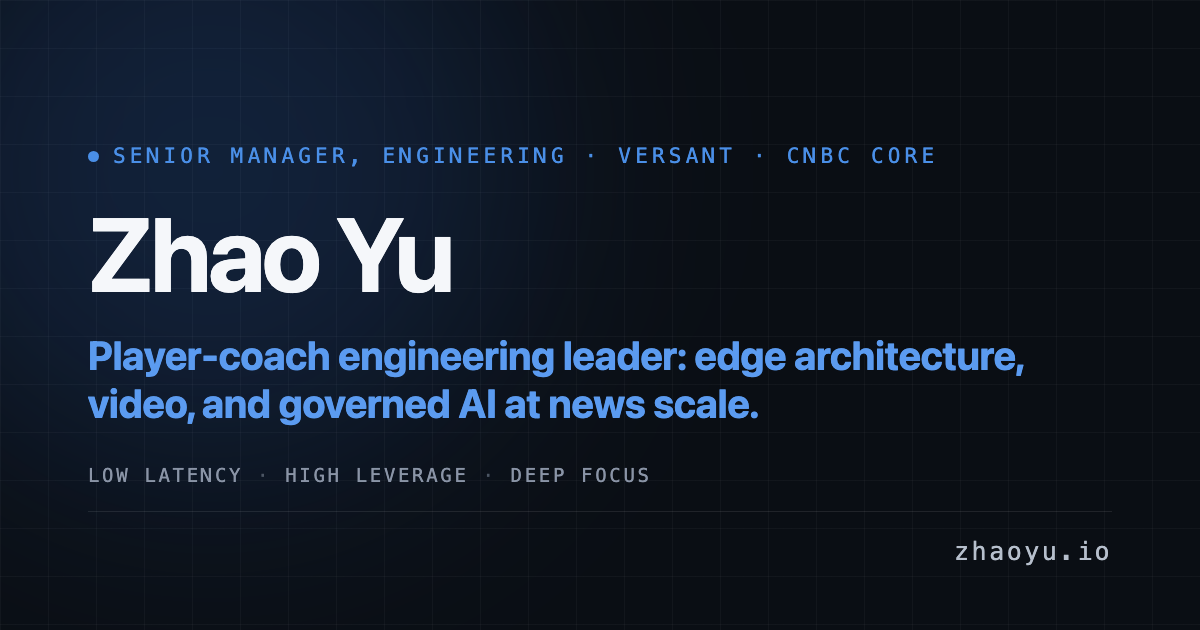
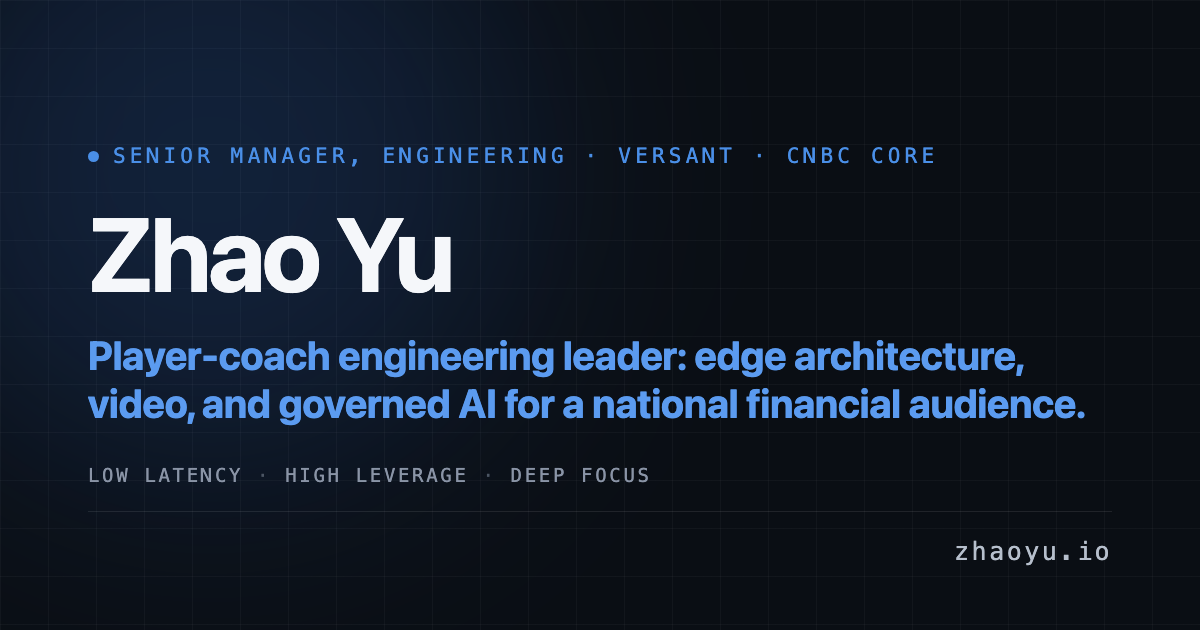
Center the copy on business impact; align the writer skill with the disclosure policy
- Every landing-page block now leads with the business outcome: hero
  (platform performance -> audience and revenue), migration card (holds
  the full audience through market-moving spikes), rebuild card (the
  redesign scope: AI/video/site experiences plus the integration web —
  Amplitude, Adobe Launch, MPS, GraphQL, identity, subscriptions), AI
  card (trust as the conversion metric on Versant's stated D2C bet),
  separation card (the work that let the spinoff stand alone), About
  (both tracks at once — decisions made in the room, no translation
  layer), org label updated to Versant (CNBC Core) everywhere.
- Voice pass per the writer skill: no 'leverage' as a verb, no 'at
  scale' without a number, em-dash and closing-cadence caps, claim-first
  openings. llms.txt tells the same story on the agent layer.
- writer skill surfaces.md brought in line with the disclosure policy:
  the verified-figures table now carries public sources, the deny-list
  is stated in the skill itself, and the removed goLoudPositioning
  machinery is no longer documented as live.
- OG site card + manifest regenerated; tokens.css regenerated from
  app.css (inverse-surface tokens, AA independent accent).

Changed region(s): [[0.4008, 0.6032, 0.925, 0.6635]]

diff --git a/frontend/src/lib/constants/content.ts b/frontend/src/lib/constants/content.ts
@@ -65,13 +65,13 @@ export interface HeroContent {
 export const heroContent: HeroContent = {
   badge: 'SENIOR MANAGER, ENGINEERING · VERSANT · CNBC CORE',
   headline: {
-    primary: 'I lead engineering teams that ship fast, trustworthy media platforms.',
+    primary: 'I lead engineering teams that turn platform performance into audience and revenue.',
     accent:
-      'Player-coach: 20 engineers, 3 teams, the next-gen CNBC.com rebuild — hands still in the code.',
+      'Player-coach: 20 engineers, 3 teams, driving the next-gen CNBC.com rebuild — hands still in the code.',
   },
   tagline:
-    'Player-coach engineering leader: edge architecture, video, and governed AI at news scale.',
-  bio: 'Nine years building CNBC.com — from intern to Principal Engineer to running the web organization. Today that means edge architecture, video, and governed AI for a platform ~47M readers use every month.',
+    'Player-coach engineering leader: edge architecture, video, and governed AI for a national financial audience.',
+  bio: 'Nine years on CNBC.com, intern to Principal Engineer to running the web organization. I keep the platform fast enough to hold ~47M monthly readers through market-moving events — edge architecture, video, and governed AI, built by teams I lead and still code beside.',
   cta: {
     primary: 'View Selected Work',
     secondary: 'Read the Notes',
@@ -144,7 +144,7 @@ export const projectsData: ProjectsData = {
     {
       title: 'CNBC.com Next-Gen Migration',
       description:
-        'Architected the migration of CNBC.com from a legacy client-side monolith to an isomorphic Akamai Edge architecture: business and rendering logic moved to Akamai EdgeWorkers, executing at the network edge rather than origin. The platform now carries CNBC’s full digital audience through market-moving events with a sub-2-second p75 LCP in public field data, and the cutover shipped with zero downtime.',
+        'Market-moving days are a financial-news business at its most valuable and most fragile. I architected CNBC.com’s migration from a legacy client-side monolith to an isomorphic Akamai Edge architecture, moving business and rendering logic to the network edge, so the platform holds its full audience through exactly those spikes: sub-2-second p75 LCP in public field data, zero downtime through the cutover, and no lost sessions or ad impressions at the moments the audience is largest.',
       tags: ['Isomorphic React', 'Akamai EdgeWorkers', 'High Scale', 'Performance'],
       metrics: [
         { label: 'P75 LCP (CRUX)', value: '1.7s' },
@@ -368,22 +368,29 @@ export interface BuilderProject {
  */
 export const builderProjects: BuilderProject[] = [
   {
-    title: 'CNBC.com Next-Gen Platform & Video Rebuild',
+    title: 'CNBC.com Next-Gen Rebuild',
     category: 'professional',
     description:
-      'Ground-up rebuild of CNBC.com and its core video experiences: modular player frameworks and edge rendering for CNBC’s digital audience, live and on-demand. I run the three web teams delivering it and still carry the core architecture myself.',
-    stack: ['Isomorphic React', 'Akamai EdgeWorkers', 'SSE Real-Time Sync', 'Micro-Frontends'],
+      'Driving the complete redesign of CNBC.com — architecting and shaping the new UI/UX end to end with a peer engineering manager. I lead the frontend architecture for the AI experiences, lead the team building the video and site experiences, and make sure the whole web behind the page holds up: analytics (Amplitude, Adobe Launch), MPS ad serving, the GraphQL data layer, login and subscriptions, SEO, compliance, and editorial workflows — so what ships is a great end-user experience, not features bolted onto a shell — on the surface Versant’s digital growth strategy rides on.',
+    stack: [
+      'Isomorphic React',
+      'Akamai EdgeWorkers',
+      'GraphQL',
+      'Micro-Frontends',
+      'Amplitude',
+      'MPS Ads',
+    ],
     status: 'active',
     metrics: [
-      { label: 'Web teams', value: '3' },
-      { label: 'Playback', value: 'Live + VOD' },
+      { label: 'Experiences', value: 'AI · Video · Site' },
+      { label: 'Integrations', value: 'Analytics · Ads · Identity · Subs' },
     ],
   },
   {
     title: 'AI-Powered Investing Tools (Frontend Architecture)',
     category: 'professional',
     description:
-      "Leading the frontend architecture for the AI-powered investing tools in CNBC's next-generation platform: deterministic, accessible interfaces around non-deterministic model output — frame-buffered token streaming, graceful degradation, and trust-preserving latency for a financial audience.",
+      "Leading the frontend architecture for the AI-powered investing tools in CNBC's next-generation platform — the direct-to-consumer bet Versant has described to investors. In financial products, trust is the conversion metric: my work makes non-deterministic model output feel deterministic — frame-buffered streaming, graceful degradation, latency that never shakes a reader’s confidence in the number on screen.",
     stack: ['Streaming UI', 'SSE', 'React', 'HCI'],
     status: 'active',
     metrics: [
@@ -399,7 +406,7 @@ export const builderProjects: BuilderProject[] = [
     title: 'Infrastructure & Privacy Separation',
     category: 'professional',
     description:
-      'Directed a 4-month cross-functional sprint across 3 teams to fully separate CNBC infrastructure from the parent company, migrating video streaming, analytics, and privacy services with zero downtime.',
+      'When the corporate spinoff needed CNBC’s digital business to stand alone, I directed the 4-month, 3-team sprint that made it real: video streaming, analytics, and privacy services migrated off the parent company with zero downtime — compliance obligations met, no revenue interruption, no user-visible seam.',
     stack: ['GCP', 'Zero Downtime', 'GDPR/CCPA Compliance', 'Cloud Architecture'],
     status: 'completed',
     metrics: [
@@ -411,7 +418,7 @@ export const builderProjects: BuilderProject[] = [
     title: 'OB1: Personal Exocortex',
     category: 'independent',
     description:
-      'A second brain built for agents, not just for me. Books, engineering sources, and production lessons get distilled into atomic, cross-linked claims — 740+ and compounding — searchable by meaning and exposed to my AI tools over MCP, so every agent session starts with my accumulated judgment instead of a blank context window.',
+      'The leverage behind everything else I ship: books, engineering sources, and production lessons distilled into 740+ atomic, cross-linked claims, searchable by meaning and exposed to my AI tools over MCP. Every agent I delegate to starts with my accumulated judgment instead of a blank context window — which is how one player-coach compounds instead of burning out.',
     stack: ['MCP', 'Embeddings', 'Semantic Search', 'TypeScript'],
     status: 'shipped',
     metrics: [
@@ -423,7 +430,7 @@ export const builderProjects: BuilderProject[] = [
     title: 'Cost-Guard: FinOps Platform',
     category: 'experiment',
     description:
-      'Local-first cloud cost monitoring using PGlite + ElectricSQL. Zero-latency reads, real-time sync, and what-if simulations for infrastructure spend, fed by a signed ingestion API on GCP Cloud Run with Pulumi-managed infrastructure. Personal observability tooling built with AI-assisted development.',
+      'Cost discipline as a shipped system, not a spreadsheet: local-first cloud cost monitoring (PGlite + ElectricSQL) with zero-latency reads, real-time sync, and what-if simulations for infrastructure spend, fed by a signed ingestion API on GCP Cloud Run. Built end to end with AI-assisted development — the same governed workflow I set for my org, proven on my own infrastructure.',
     stack: ['SvelteKit', 'PGlite', 'ElectricSQL', 'GCP Cloud Run', 'Pulumi'],
     status: 'in-progress',
     metrics: [
@@ -441,8 +448,8 @@ export interface NarrativeBio {
 export const narrativeBio: NarrativeBio = {
   title: 'Player-coach by design',
   paragraphs: [
-    "My career began as a web developer intern at CNBC, and over nine years it has deliberately crossed the two tracks most engineers pick between: senior engineer, then engineering manager, then back to the technical track as Principal Engineer — a choice, not a detour, made to keep my architecture judgment current — and now Senior Manager, Engineering for CNBC Core. The role is the synthesis of both tracks: I direct a 20-engineer organization across 3 web teams executing the platform rebuild of CNBC.com, while still architecting and shipping alongside them. Player-coach by design, because I've done both jobs on their own.",
-    'As AI Integration Lead, I formalize the standards and PR quality gates (SonarQube, lint, Jest test automation) governing how 20+ engineers across 3 web teams integrate AI tools like Cursor into production codebases — measurable velocity gains with fewer high-severity defects. The philosophy underneath it is "plan-first" execution: AI as a disciplined velocity multiplier inside strict security and compliance guardrails, never as an unreviewed author.',
+    'What the business gets from me is both tracks at once. Over nine years at CNBC I deliberately crossed the line most engineers pick a side of — senior engineer, then engineering manager, then back to Principal Engineer to keep my architecture judgment current, now Senior Manager, Engineering for CNBC Core. The payoff for the organization: I direct a 20-engineer organization across 3 web teams rebuilding CNBC.com, and because I still architect and ship alongside them, technical decisions get made in the room — no translation layer between strategy and the codebase, no architecture that drifts from what the teams can actually deliver.',
+    'As AI Integration Lead I turned AI adoption from individual experimentation into an organizational capability: standards and PR quality gates (SonarQube, lint, Jest test automation) governing how 20+ engineers use tools like Cursor in production code — measurable velocity gains with fewer high-severity defects, inside the security and compliance guardrails a financial-media business actually has to honor. The org ships faster because the review bar got stronger, not looser.',
     'Outside the codebase I am a long-distance runner — a 3:07 marathon and a 50K ultra — and the same discipline carries into multi-year technical transformations.',
   ],
 };
@@ -457,7 +464,7 @@ export interface SocialDescriptions {
 export const socialDescriptions: SocialDescriptions = {
   meta: 'Senior Manager, Engineering at Versant (CNBC Core). Player-coach leading 20 engineers through the next-gen CNBC.com rebuild: edge, video, governed AI.',
   twitter:
-    'Senior Manager, Engineering at Versant (CNBC Core). Player-coach engineering leader: edge architecture, video, and governed AI at news scale.',
+    'Senior Manager, Engineering at Versant (CNBC Core). Player-coach engineering leader: edge architecture, video, and governed AI for a national financial audience.',
 };
 
 export interface PersonaItem {
@@ -470,7 +477,7 @@ export const personaData: PersonaItem[] = [
   {
     title: 'Latency Is the Enemy of Trust',
     body: [
-      "Whether it's a financial ticker during a market spike or a UI transition on a slow network, delay creates doubt. Every millisecond removed is a unit of confidence restored.",
+      "Whether it's a financial ticker during a market spike or a UI transition on a slow network, delay creates doubt — and doubt is churn. Every millisecond removed is a unit of audience confidence restored.",
       'Operationally that means standards, budgets, and repeatability over one-off heroics: UI production run like manufacturing, not craftsmanship.',
     ],
   },
@@ -478,7 +485,7 @@ export const personaData: PersonaItem[] = [
     title: 'The Bridge',
     body: [
       "I operate at the intersection of Product and Engineering. I don't build to spec — I partner with product leaders to define what is technically possible at scale.",
-      'I translate edge configuration into business value, connect latency improvements to revenue impact, and push back when the roadmap is wrong.',
+      'I translate edge configuration into business value, connect latency improvements to revenue impact, and push back when the roadmap is wrong — engineering earns its seat by speaking the business’s language.',
     ],
   },
 ];
@@ -492,7 +499,7 @@ export interface FooterManifestoItem {
 export const footerManifesto: FooterManifestoItem[] = [
   {
     title: 'Latency Is the Enemy of Trust',
-    body: 'Performance is a feature, not an afterthought. I architect for the critical rendering path at news scale.',
+    body: 'Performance is a feature, not an afterthought. The critical rendering path is the product; I architect for it first.',
   },
   {
     title: 'URL > Store',
@@ -504,7 +511,7 @@ export const footerManifesto: FooterManifestoItem[] = [
   },
   {
     title: 'Server > Client',
-    body: "I leverage SvelteKit and Akamai EdgeWorkers to ship HTML, not just JSON. I optimize for the browser's critical rendering path.",
+    body: "I ship HTML, not just JSON — SvelteKit here, Akamai EdgeWorkers at work — and optimize for the browser's critical rendering path.",
   },
 ];
 

diff --git a/frontend/static/tokens.css b/frontend/static/tokens.css
@@ -16,6 +16,12 @@
   --text-secondary: #4b5563;
   --text-muted: #6b7280;
   --border-color: rgba(0, 0, 0, 0.1);
+  --bg-inverse: #050505;
+  --surface-on-inverse: rgba(255, 255, 255, 0.03);
+  --border-on-inverse: rgba(255, 255, 255, 0.08);
+  --text-on-inverse: #e5e5e5;
+  --text-on-inverse-muted: #9ca3af;
+  --accent-on-inverse: #60a5fa;
   --accent-primary: #3b82f6;
   --accent-primary-hover: #2563eb;
   --accent-primary-light: #60a5fa;
@@ -27,10 +33,10 @@
   --accent-primary-20: rgba(59, 130, 246, 0.2);
   --accent-primary-30: rgba(59, 130, 246, 0.3);
   --accent-professional: #1d4ed8;
-  --accent-independent: #b45309;
+  --accent-independent: #9a4405;
   --accent-experiment: #0e7490;
-  --accent-independent-10: rgba(180, 83, 9, 0.1);
-  --accent-independent-20: rgba(180, 83, 9, 0.2);
+  --accent-independent-10: rgba(154, 68, 5, 0.1);
+  --accent-independent-20: rgba(154, 68, 5, 0.2);
   --accent-infra: #06b6d4;
   --accent-infra-light: #22d3ee;
   --accent-infra-dark: #0891b2;

diff --git a/frontend/src/lib/utils/feature-flags.test.ts b/frontend/src/lib/utils/feature-flags.test.ts
@@ -37,7 +37,7 @@ describe('current site content', () => {
     const projectTitles = visibleItems(projectsData.projects).map((p) => p.title);
     const builderTitles = visibleItems(builderProjects).map((p) => p.title);
     expect(projectTitles).toContain('CNBC.com Next-Gen Migration');
-    expect(builderTitles).toContain('CNBC.com Next-Gen Platform & Video Rebuild');
+    expect(builderTitles).toContain('CNBC.com Next-Gen Rebuild');
     expect(builderTitles).toContain('AI-Powered Investing Tools (Frontend Architecture)');
     expect(builderTitles).toContain('Infrastructure & Privacy Separation');
     expect(builderTitles).toContain('Cost-Guard: FinOps Platform');

diff --git a/frontend/src/lib/constants/positioning.test.ts b/frontend/src/lib/constants/positioning.test.ts
@@ -82,7 +82,7 @@ describe('one story on every surface', () => {
   });
 
   it('leads Selected Work with the platform rebuild', () => {
-    expect(builderProjects[0].title).toBe('CNBC.com Next-Gen Platform & Video Rebuild');
+    expect(builderProjects[0].title).toBe('CNBC.com Next-Gen Rebuild');
   });
 });
 

diff --git a/.claude/skills/writer/references/surfaces.md b/.claude/skills/writer/references/surfaces.md
@@ -4,34 +4,39 @@ Everything below lives in `frontend/src/lib/constants/content.ts` unless noted.
 
 ## Verified figures — use these, never invent new ones
 
-| Fact | Value |
-|---|---|
-| CNBC.com LCP | 1.1s (top 1%) |
-| Monthly users | [redacted] |
-| Akamai TTFB | [redacted], global |
-| Edge cache hit rate | [redacted] |
-| Production years | 9+ |
-| Org | 20 engineers, 3 web teams, CNBC Web & Make It (Versant) |
-| CNBC.com business | [redacted]–55M ARR, [redacted] subscribers |
-| AI assistant | [redacted] beta cohort — a pilot, **not** a site-wide surface |
-| AI governance outcome | [redacted] increase, [redacted] high-severity defects |
-| Running | 3:07 marathon, 50K ultra finish, sub-1:25 half in the crosshairs |
+**The disclosure policy governs this table.** Versant is a public company: every
+employer-related number on any surface must carry a public source from `SOURCES`
+in `content.ts`, and `disclosure-guard.test.ts` scans copy, `og.ts`,
+`structured-data.ts`, `llms.txt`, and the page roots against a deny-list.
+Add a new figure to `SOURCES` (with its public citation) before using it in prose.
 
-Two standing accuracy rules the copy already enforces: the AI assistant is described as a
-beta pilot, and the title ("Senior Manager, Engineering") is stated as fact in both
-positioning variants. Don't let a rewrite inflate either.
+| Fact | Value | Source |
+|---|---|---|
+| CNBC digital audience | ~47M monthly unique visitors (ComScore) | Versant Investor Day deck, Dec 2025, slide 66 |
+| CNBC.com field performance | 1.7s p75 LCP, all devices, Jul 2026 | Chrome UX Report (public field data) |
+| Org | 20 engineers, 3 web teams, CNBC Core (Versant) | LinkedIn / role of record |
+| Production years | 9+ (intern 2016 → Senior Manager 2026) | Career timeline |
+| Next-gen platform + AI investing tools | Public cover: Versant Q2-2026 earnings call | Lazarus quote, 6 Aug 2026 |
+| Running | 3:07 marathon, 50K ultra finish | Personal record |
 
-## The positioning flag
+**Deny-listed — never write these, even if you find them in old copy or git
+history:** `[redacted]`, `[redacted]`, `[redacted]`, `[redacted] TTFB`, `[redacted]` cache hit,
+subscription ARR or subscriber counts, AI-assistant beta size or pipeline
+internals, unannounced video roadmap items, internal governance metrics
+(velocity/defect percentages), "[redacted]", "I own the".
+The AI work is described only as "leading the frontend architecture for the
+AI-powered investing tools in CNBC's next-generation platform" until CNBC
+announces the product.
 
-`FEATURE_FLAGS.goLoudPositioning` (in `config.ts`) switches hero, narrative bio, and social
-descriptions between a **stealth** variant (scope, no surface-ownership claims) and a
-**go-loud** variant (explicit ownership of the AI and video surfaces).
+## One story on every surface
 
-- Any edit to hero / narrative bio / social descriptions must be made in **both** variants,
-  or deliberately in one with a comment saying which.
-- `positioning.test.ts` asserts both states. Run it after any change there.
-- Agent-facing copy (JSON-LD, `llms.txt`) deliberately does **not** follow the flag. Keep it
-  factual and flag-independent.
+There is no positioning flag — `goLoudPositioning` was removed. Hero, narrative
+bio, social descriptions, JSON-LD, and `llms.txt` all tell the same story:
+loud on role and outcomes, quiet on internals. `positioning.test.ts` enforces
+the shared title/employer string, the 40-word headline cap, and the one-figure
+bio; run it after touching any of those surfaces. `FEATURE_FLAGS.showCnbcAiWork`
+still exists, but nothing gated by it lives in the repo until CNBC announces —
+a flag hides a card, not the shipped bundle.
 
 ## Surface specs
 
@@ -41,8 +46,8 @@ maintained newest-first.
 
 **Hero** (`heroContent`) — badge is the title line, all caps, separated by `·`. `headline.primary`
 is a short declarative sentence ending in a period. `headline.accent` is the positioning
-claim, one line. `bio` is one dense paragraph, 55–75 words, ending on the performance
-credentials. `motto` is three two-word phrases.
+claim, one line. `bio` is one dense paragraph, 40–60 words, at most one figure (enforced by
+`positioning.test.ts`), ending on what the reader gets. `motto` is three two-word phrases.
 
 **Projects** (`projectsData.projects`) — `description` is one paragraph, 55–80 words,
 structured as: what was architected → the technical move → the measured result. Two `metrics`
@@ -53,17 +58,16 @@ each, label in caps. 4 tags. Lead with the architecture decision, not the compan
 Paragraph 2 is AI governance. Final paragraph is the running/discipline close. Keep the
 through-line: player-coach by design.
 
-**Persona** (`personaData`) — 4 cards, each `title` + exactly 2 short paragraphs (35–55 words
-each). This is the one surface where personality outranks receipts, but each card still
-lands on a concrete: a metric, a cuisine, a market.
+**Persona** (`personaData`) — 2 operating-principle cards rendered inside the
+"How I work" section, each `title` + 2 short paragraphs (35–55 words each). Each
+card ties an engineering principle to its business consequence.
 
 **Footer manifesto** (`footerManifesto`) — 4 items. `title` is 3–5 words, ideally an
 asymmetric comparison (`URL > Store`, `Server > Client`). `body` is one sentence, 20–30 words,
 stating the rule and its justification.
 
-**Social descriptions** (`buildSocialDescriptions`) — `meta` caps at ~160 characters (it's
-also what `noteExcerpt` truncates to); `twitter` is shorter and drops the numbers. Both
-follow the positioning flag.
+**Social descriptions** (`socialDescriptions`, a plain constant) — `meta` caps at
+160 characters (enforced); `twitter` is shorter and drops the numbers.
 
 **Code standards** (`codeStandards`) — `bad` / `good` snippet pairs with a `note`. The bad
 snippet must be a real trap someone would write, commented with why it fails; the good one
